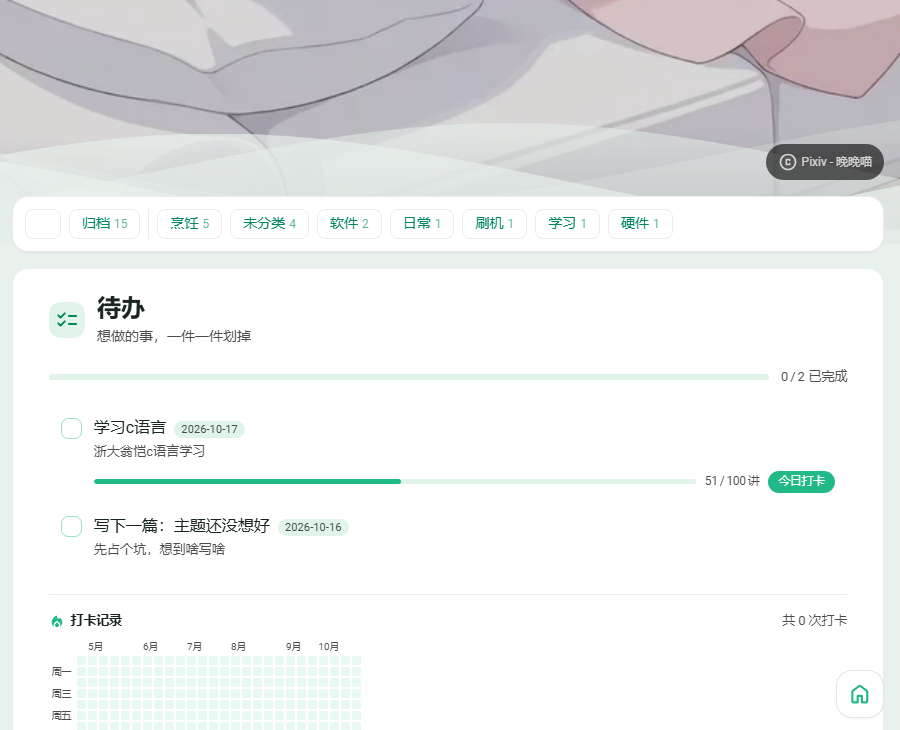
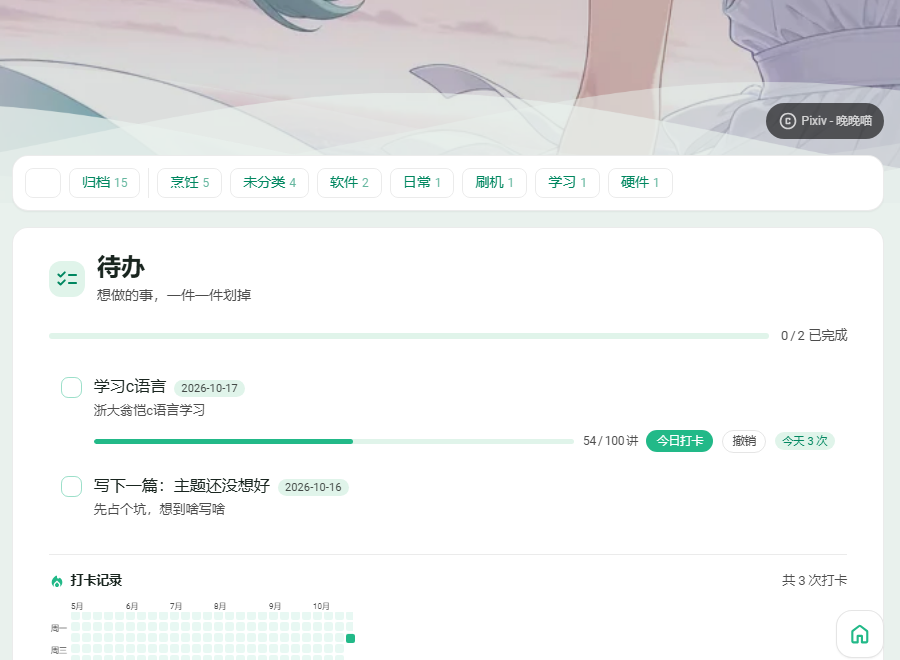
feat: add undo functionality for todo check-ins and update localization

diff --git a/src/content.config.ts b/src/content.config.ts
@@ -58,10 +58,14 @@ const todosCollection = defineCollection({
 		// 进度单位，比如「讲」「页」「天」
 		progressUnit: z.string().optional().default(""),
 
-		// 打卡日期，一天一条；同一天写多次就是「一天打卡多次」
-		// 例如 checkins: [2026-10-15, 2026-10-16, 2026-10-16]
+		// 打卡记录：一天可以多次，每条可以带时间
+		// 例如 checkins: [2026-10-15, "2026-10-16 22:31", "2026-10-16 23:05"]
+		// （只有日期时会解析成日期对象，带时间的请加引号写成字符串）
 		// 页面上的进度 = progress + 打卡次数 × progressStep
-		checkins: z.array(z.date()).optional().default([]),
+		checkins: z
+			.array(z.union([z.string(), z.date()]))
+			.optional()
+			.default([]),
 	}),
 });
 

diff --git a/src/i18n/languages/ru.ts b/src/i18n/languages/ru.ts
@@ -304,6 +304,7 @@ export const ru: Translation = {
 	[Key.todoEmpty]: "Сейчас задач нет",
 	[Key.todoCompleted]: "выполнено",
 	[Key.todoCheckin]: "Отметиться",
+	[Key.todoUndo]: "Отменить",
 	[Key.todoTodayCount]: "сегодня {count} раз",
 	[Key.todoStreak]: "серия {days} дн.",
 	[Key.todoHeatmap]: "История отметок",

diff --git a/src/i18n/languages/ja.ts b/src/i18n/languages/ja.ts
@@ -302,6 +302,7 @@ export const ja: Translation = {
 	[Key.todoEmpty]: "いまは ToDo がありません",
 	[Key.todoCompleted]: "完了",
 	[Key.todoCheckin]: "今日のチェックイン",
+	[Key.todoUndo]: "取り消し",
 	[Key.todoTodayCount]: "今日 {count} 回",
 	[Key.todoStreak]: "{days} 日連続",
 	[Key.todoHeatmap]: "チェックイン記録",

diff --git a/src/i18n/languages/zh_CN.ts b/src/i18n/languages/zh_CN.ts
@@ -294,6 +294,7 @@ export const zh_CN: Translation = {
 	[Key.todoEmpty]: "暂时没有待办，先享受一下空白",
 	[Key.todoCompleted]: "已完成",
 	[Key.todoCheckin]: "今日打卡",
+	[Key.todoUndo]: "撤销",
 	[Key.todoTodayCount]: "今天 {count} 次",
 	[Key.todoStreak]: "连续 {days} 天",
 	[Key.todoHeatmap]: "打卡记录",

diff --git a/src/i18n/languages/zh_TW.ts b/src/i18n/languages/zh_TW.ts
@@ -296,6 +296,7 @@ export const zh_TW: Translation = {
 	[Key.todoEmpty]: "暫時沒有待辦，先享受一下空白",
 	[Key.todoCompleted]: "已完成",
 	[Key.todoCheckin]: "今日打卡",
+	[Key.todoUndo]: "撤銷",
 	[Key.todoTodayCount]: "今天 {count} 次",
 	[Key.todoStreak]: "連續 {days} 天",
 	[Key.todoHeatmap]: "打卡紀錄",

diff --git a/src/i18n/languages/en.ts b/src/i18n/languages/en.ts
@@ -303,6 +303,7 @@ export const en: Translation = {
 	[Key.todoEmpty]: "Nothing on the list right now",
 	[Key.todoCompleted]: "completed",
 	[Key.todoCheckin]: "Check in",
+	[Key.todoUndo]: "Undo",
 	[Key.todoTodayCount]: "{count}× today",
 	[Key.todoStreak]: "{days}-day streak",
 	[Key.todoHeatmap]: "Check-in history",

diff --git a/src/i18n/i18nKey.ts b/src/i18n/i18nKey.ts
@@ -290,6 +290,7 @@ enum I18nKey {
 	todoEmpty = "todoEmpty",
 	todoCompleted = "todoCompleted",
 	todoCheckin = "todoCheckin",
+	todoUndo = "todoUndo",
 	todoTodayCount = "todoTodayCount",
 	todoStreak = "todoStreak",
 	todoHeatmap = "todoHeatmap",
